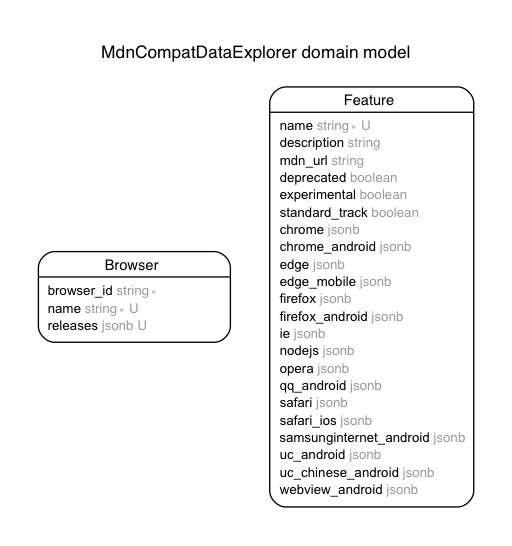
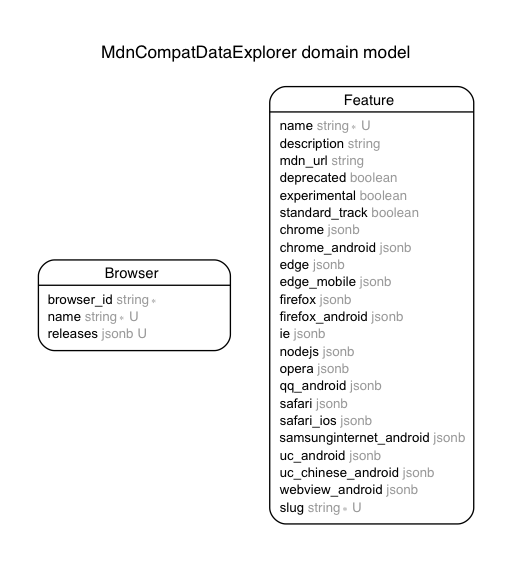
Add friendly_id gem and slugs to features table so feature pages can use slugs in their URLs.

Changed region(s): [[0.1875, 0.0623, 0.9375, 0.9341], [0.0625, 0.4359, 0.4688, 0.6538]]

diff --git a/config/initializers/friendly_id.rb b/config/initializers/friendly_id.rb
@@ -1,0 +1,107 @@
+# FriendlyId Global Configuration
+#
+# Use this to set up shared configuration options for your entire application.
+# Any of the configuration options shown here can also be applied to single
+# models by passing arguments to the `friendly_id` class method or defining
+# methods in your model.
+#
+# To learn more, check out the guide:
+#
+# http://norman.github.io/friendly_id/file.Guide.html
+
+FriendlyId.defaults do |config|
+  # ## Reserved Words
+  #
+  # Some words could conflict with Rails's routes when used as slugs, or are
+  # undesirable to allow as slugs. Edit this list as needed for your app.
+  config.use :reserved
+
+  config.reserved_words = %w(new edit index session login logout users admin
+    stylesheets assets javascripts images)
+    
+  # This adds an option to to treat reserved words as conflicts rather than exceptions.
+  # When there is no good candidate, a UUID will be appended, matching the existing
+  # conflict behavior.
+
+  # config.treat_reserved_as_conflict = true
+
+  #  ## Friendly Finders
+  #
+  # Uncomment this to use friendly finders in all models. By default, if
+  # you wish to find a record by its friendly id, you must do:
+  #
+  #    MyModel.friendly.find('foo')
+  #
+  # If you uncomment this, you can do:
+  #
+  #    MyModel.find('foo')
+  #
+  # This is significantly more convenient but may not be appropriate for
+  # all applications, so you must explicity opt-in to this behavior. You can
+  # always also configure it on a per-model basis if you prefer.
+  #
+  # Something else to consider is that using the :finders addon boosts
+  # performance because it will avoid Rails-internal code that makes runtime
+  # calls to `Module.extend`.
+  #
+  # config.use :finders
+  #
+  # ## Slugs
+  #
+  # Most applications will use the :slugged module everywhere. If you wish
+  # to do so, uncomment the following line.
+  #
+  # config.use :slugged
+  #
+  # By default, FriendlyId's :slugged addon expects the slug column to be named
+  # 'slug', but you can change it if you wish.
+  #
+  # config.slug_column = 'slug'
+  #
+  # By default, slug has no size limit, but you can change it if you wish.
+  #
+  # config.slug_limit = 255
+  #
+  # When FriendlyId can not generate a unique ID from your base method, it appends
+  # a UUID, separated by a single dash. You can configure the character used as the
+  # separator. If you're upgrading from FriendlyId 4, you may wish to replace this
+  # with two dashes.
+  #
+  # config.sequence_separator = '-'
+  #
+  # Note that you must use the :slugged addon **prior** to the line which
+  # configures the sequence separator, or else FriendlyId will raise an undefined
+  # method error.
+  #
+  #  ## Tips and Tricks
+  #
+  #  ### Controlling when slugs are generated
+  #
+  # As of FriendlyId 5.0, new slugs are generated only when the slug field is
+  # nil, but if you're using a column as your base method can change this
+  # behavior by overriding the `should_generate_new_friendly_id?` method that
+  # FriendlyId adds to your model. The change below makes FriendlyId 5.0 behave
+  # more like 4.0.
+  # Note: Use(include) Slugged module in the config if using the anonymous module.
+  # If you have `friendly_id :name, use: slugged` in the model, Slugged module
+  # is included after the anonymous module defined in the initializer, so it
+  # overrides the `should_generate_new_friendly_id?` method from the anonymous module.
+  #
+  # config.use :slugged
+  # config.use Module.new {
+  #   def should_generate_new_friendly_id?
+  #     slug.blank? || <your_column_name_here>_changed?
+  #   end
+  # }
+  #
+  # FriendlyId uses Rails's `parameterize` method to generate slugs, but for
+  # languages that don't use the Roman alphabet, that's not usually sufficient.
+  # Here we use the Babosa library to transliterate Russian Cyrillic slugs to
+  # ASCII. If you use this, don't forget to add "babosa" to your Gemfile.
+  #
+  # config.use Module.new {
+  #   def normalize_friendly_id(text)
+  #     text.to_slug.normalize! :transliterations => [:russian, :latin]
+  #   end
+  # }
+end

diff --git a/db/schema.rb b/db/schema.rb
@@ -10,7 +10,7 @@
 #
 # It's strongly recommended that you check this file into your version control system.
 
-ActiveRecord::Schema.define(version: 2018_04_26_202826) do
+ActiveRecord::Schema.define(version: 2018_05_15_204532) do
 
   # These are extensions that must be enabled in order to support this database
   enable_extension "pg_trgm"
@@ -49,6 +49,20 @@ ActiveRecord::Schema.define(version: 2018_04_26_202826) do
     t.jsonb "uc_android"
     t.jsonb "uc_chinese_android"
     t.jsonb "webview_android"
+    t.string "slug", null: false
+    t.index ["slug"], name: "index_features_on_slug", unique: true
+  end
+
+  create_table "friendly_id_slugs", force: :cascade do |t|
+    t.string "slug", null: false
+    t.integer "sluggable_id", null: false
+    t.string "sluggable_type", limit: 50
+    t.string "scope"
+    t.datetime "created_at"
+    t.index ["slug", "sluggable_type", "scope"], name: "index_friendly_id_slugs_on_slug_and_sluggable_type_and_scope", unique: true
+    t.index ["slug", "sluggable_type"], name: "index_friendly_id_slugs_on_slug_and_sluggable_type"
+    t.index ["sluggable_id"], name: "index_friendly_id_slugs_on_sluggable_id"
+    t.index ["sluggable_type"], name: "index_friendly_id_slugs_on_sluggable_type"
   end
 
 end

diff --git a/app/controllers/features_controller.rb b/app/controllers/features_controller.rb
@@ -90,4 +90,24 @@ class FeaturesController < ApplicationController
       @browsers.delete(browser)
     end
   end
+
+  def show
+    @feature = Feature.friendly.find(params[:slug])
+
+    @browsers = Rails.configuration.browsers
+
+    @browsers.keys.each do |browser|
+      if params[browser] == "unknown"
+        features = features.public_send("#{browser}_nil")
+      elsif params[browser] == "true"
+        features = features.public_send("#{browser}_true")
+      elsif params[browser] == "exactly_true"
+        features = features.public_send("#{browser}_exactly_true")
+      elsif params[browser] == "false"
+        features = features.public_send("#{browser}_false")
+      elsif params[browser] == "no_data"
+        features = features.public_send("#{browser}_no_data")
+      end
+    end
+  end
 end

diff --git a/app/models/feature.rb b/app/models/feature.rb
@@ -21,6 +21,7 @@
 #  safari                  :jsonb
 #  safari_ios              :jsonb
 #  samsunginternet_android :jsonb
+#  slug                    :string           not null
 #  standard_track          :boolean
 #  uc_android              :jsonb
 #  uc_chinese_android      :jsonb
@@ -28,11 +29,18 @@
 #  created_at              :datetime         not null
 #  updated_at              :datetime         not null
 #
+# Indexes
+#
+#  index_features_on_slug  (slug) UNIQUE
+#
 
 class Feature < ApplicationRecord
   include PgSearch
+  include FriendlyId
 
+  friendly_id :name, use: :slugged
   validates :name, presence: true, uniqueness: true
+  validates :slug, presence: true, uniqueness: true
 
   paginates_per 50
 

diff --git a/db/migrate/20180515203653_create_friendly_id_slugs.rb b/db/migrate/20180515203653_create_friendly_id_slugs.rb
@@ -1,0 +1,15 @@
+class CreateFriendlyIdSlugs < ActiveRecord::Migration[5.1]
+  def change
+    create_table :friendly_id_slugs do |t|
+      t.string   :slug,           :null => false
+      t.integer  :sluggable_id,   :null => false
+      t.string   :sluggable_type, :limit => 50
+      t.string   :scope
+      t.datetime :created_at
+    end
+    add_index :friendly_id_slugs, :sluggable_id
+    add_index :friendly_id_slugs, [:slug, :sluggable_type], length: { slug: 140, sluggable_type: 50 }
+    add_index :friendly_id_slugs, [:slug, :sluggable_type, :scope], length: { slug: 70, sluggable_type: 50, scope: 70 }, unique: true
+    add_index :friendly_id_slugs, :sluggable_type
+  end
+end

diff --git a/test/models/feature_test.rb b/test/models/feature_test.rb
@@ -21,12 +21,17 @@
 #  safari                  :jsonb
 #  safari_ios              :jsonb
 #  samsunginternet_android :jsonb
+#  slug                    :string           not null
 #  standard_track          :boolean
 #  uc_android              :jsonb
 #  uc_chinese_android      :jsonb
 #  webview_android         :jsonb
 #  created_at              :datetime         not null
 #  updated_at              :datetime         not null
+#
+# Indexes
+#
+#  index_features_on_slug  (slug) UNIQUE
 #
 
 require 'test_helper'

diff --git a/test/factories/features.rb b/test/factories/features.rb
@@ -21,12 +21,17 @@
 #  safari                  :jsonb
 #  safari_ios              :jsonb
 #  samsunginternet_android :jsonb
+#  slug                    :string           not null
 #  standard_track          :boolean
 #  uc_android              :jsonb
 #  uc_chinese_android      :jsonb
 #  webview_android         :jsonb
 #  created_at              :datetime         not null
 #  updated_at              :datetime         not null
+#
+# Indexes
+#
+#  index_features_on_slug  (slug) UNIQUE
 #
 
 FactoryBot.define do

diff --git a/config/routes.rb b/config/routes.rb
@@ -9,5 +9,7 @@ Rails.application.routes.draw do
   # e.g. `/browsers/chrome`.
   resources :browsers, param: :browser_id, only: [:show]
 
+  resources :features, param: :slug, only: [:show]
+
   root 'welcome#index'
 end

diff --git a/db/migrate/20180515204532_add_slug_to_features.rb b/db/migrate/20180515204532_add_slug_to_features.rb
@@ -1,0 +1,6 @@
+class AddSlugToFeatures < ActiveRecord::Migration[5.2]
+  def change
+    add_column :features, :slug, :string, null: false
+    add_index :features, :slug, unique: true
+  end
+end
